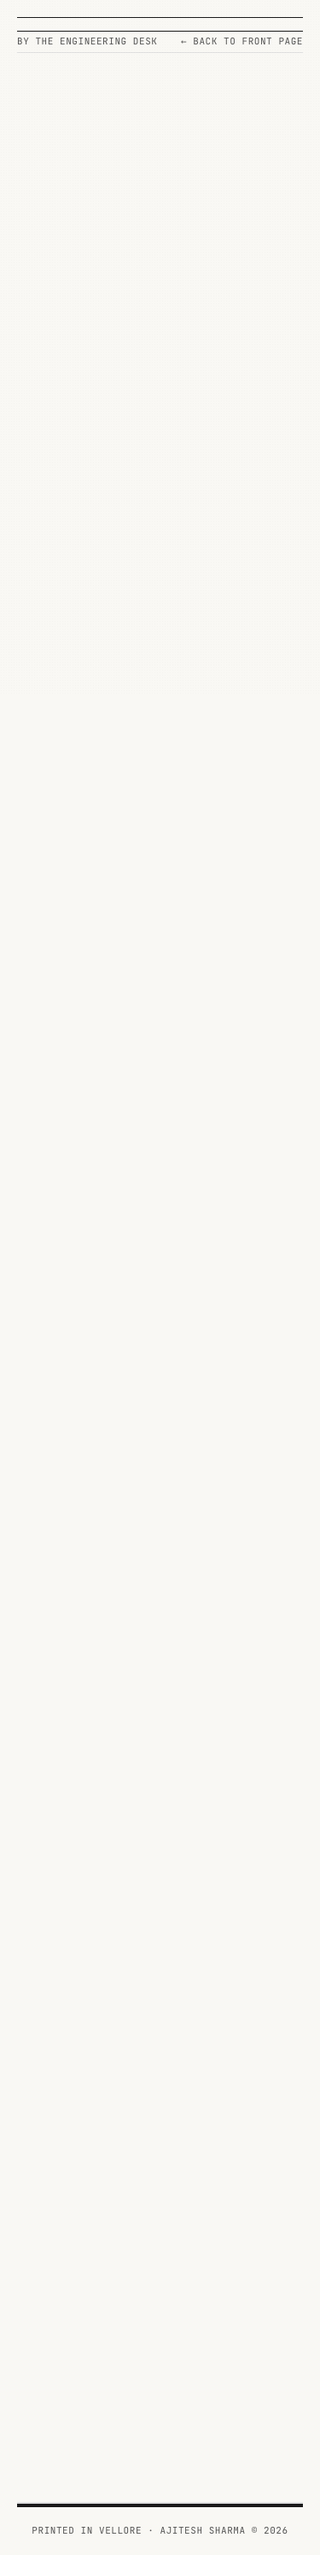
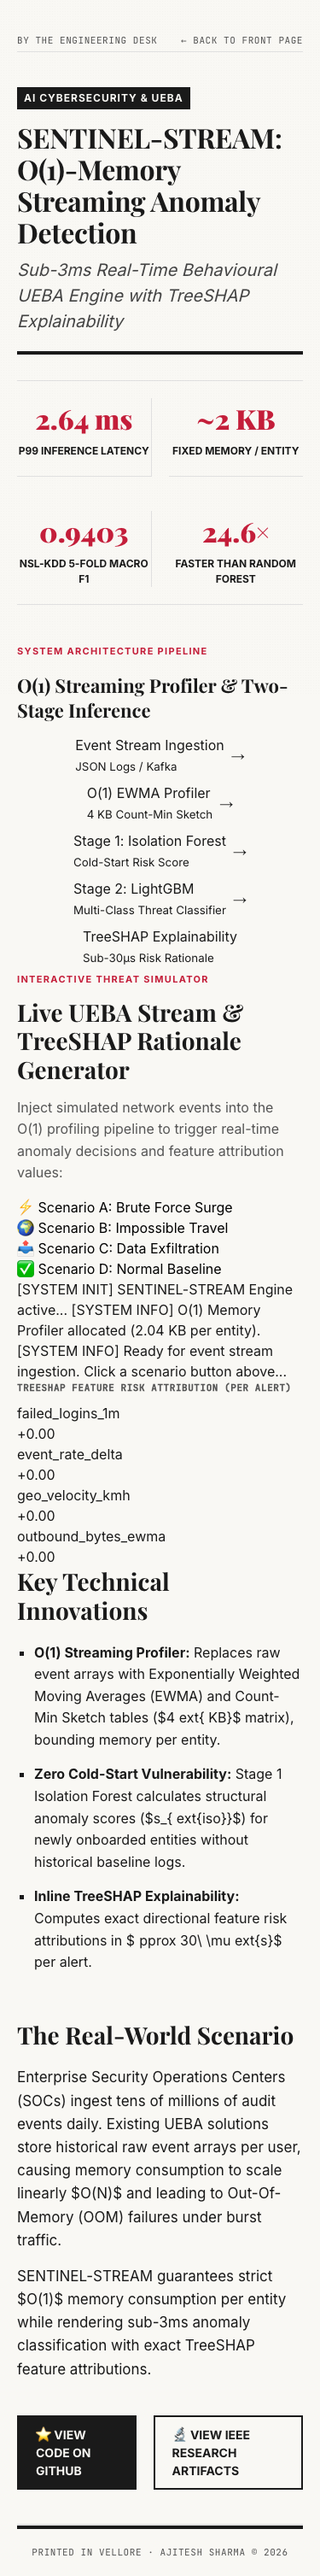
Fix subpage visibility & blank page bug, add architectural diagrams for SeatSnap & NutriVision Pro, zero QA errors

diff --git a/pages/nutrivision.html b/pages/nutrivision.html
@@ -36,7 +36,7 @@
     <div class="container">
         
         <!-- SUBPAGE HEADER -->
-        <header class="masthead section-rule--double" style="margin-top: 20px;">
+        <header class="masthead" style="margin-top: 20px;">
             <nav class="nav" id="main-nav" style="border-bottom: 4px solid var(--rule-dark); padding: 15px 0;">
                 <div class="newspaper-grid" style="align-items: center;">
                     <div class="col-span-6 heading-md" style="margin:0;"><a href="../index.html" style="text-decoration: none; color: inherit;">&larr; THE SHARMA DISPATCH</a></div>
@@ -88,6 +88,49 @@
                 </div>
             </section>
 
+                    <!-- ARCHITECTURE FLOW -->
+            <section class="section" style="padding: 30px 0; border-bottom: 1px solid var(--rule);">
+                <div class="newspaper-grid">
+                    <div class="col-span-12">
+                        <div class="arch-diagram-box" style="background: var(--paper-warm); border: 2px solid var(--rule-dark); padding: 25px; text-align: center;">
+                            <span class="kicker-label" style="color: var(--stamp);">MULTIMODAL AI PIPELINE</span>
+                            <h4 class="heading-md" style="margin: 10px 0 15px 0;">Google Gemini Vision Multimodal Processing Flow</h4>
+                            <div style="display:flex; flex-wrap:wrap; align-items:center; justify-content:center; gap:8px; font-family: var(--font-mono, monospace);">
+                                <div class="arch-node">Meal Snapshot<br><small style="font-weight:normal;">Camera / File Upload</small></div>
+                                <span class="arch-arrow">&rarr;</span>
+                                <div class="arch-node">Next.js Edge API<br><small style="font-weight:normal;">Image Pre-processing &amp; Base64</small></div>
+                                <span class="arch-arrow">&rarr;</span>
+                                <div class="arch-node">Gemini Pro Vision API<br><small style="font-weight:normal;">Multimodal Object Recognition</small></div>
+                                <span class="arch-arrow">&rarr;</span>
+                                <div class="arch-node">Nutritional Engine<br><small style="font-weight:normal;">Portion &amp; Macro Breakdown</small></div>
+                                <span class="arch-arrow">&rarr;</span>
+                                <div class="arch-node">Dashboard Analytics<br><small style="font-weight:normal;">Calorie &amp; Goal Insights</small></div>
+                            </div>
+                        </div>
+                    </div>
+                </div>
+            </section>
+
+            <!-- KEY INNOVATIONS & DETAILS -->
+            <section class="section" style="padding: 40px 0;">
+                <div class="newspaper-grid">
+                    <div class="col-span-6 rv column-bordered">
+                        <h4 class="heading-md" style="margin-bottom: 15px; border-bottom: 2px solid var(--rule-dark); padding-bottom: 5px;">1. Multimodal Recognition</h4>
+                        <p class="body" style="margin-bottom: 15px;">By supplying image embeddings directly into Google Gemini Pro Vision, NutriVision Pro classifies multi-item plates (e.g., distinguishing grilled salmon from roasted side vegetables) with zero manual tagging.</p>
+                        
+                        <h4 class="heading-md" style="margin-bottom: 15px; border-bottom: 2px solid var(--rule-dark); padding-bottom: 5px; margin-top: 30px;">2. Portion &amp; Calorie Estimation</h4>
+                        <p class="body" style="margin-bottom: 15px;">The inference prompt guides Gemini to output structured JSON containing estimated gram weights, caloric counts, protein, carbohydrate, and fat breakdowns per identified item.</p>
+                    </div>
+                    
+                    <div class="col-span-6 rv">
+                        <h4 class="heading-md" style="margin-bottom: 15px; border-bottom: 2px solid var(--rule-dark); padding-bottom: 5px;">3. Serverless Edge Deployment</h4>
+                        <p class="body" style="margin-bottom: 15px;">Hosted on Vercel's global edge network, API routes stream responses back to the client interface in sub-800ms, maintaining a ultra-smooth user experience.</p>
+                        
+                        <h4 class="heading-md" style="margin-bottom: 15px; border-bottom: 2px solid var(--rule-dark); padding-bottom: 5px; margin-top: 30px;">4. Production Access</h4>
+                        <p class="body" style="margin-bottom: 15px;">Live application available at <a href="https://nutrivison-pro.vercel.app/" target="_blank" style="color:var(--stamp); font-weight:bold;">nutrivison-pro.vercel.app &nearr;</a> with source code on <a href="https://github.com/AJ1312/nutrivison-pro" target="_blank" style="color:var(--stamp); font-weight:bold;">GitHub &nearr;</a>.</p>
+                    </div>
+                </div>
+            </section>
         </main>
         
         <!-- FOOTER -->

diff --git a/pages/snapseat.html b/pages/snapseat.html
@@ -36,7 +36,7 @@
     <div class="container">
         
         <!-- SUBPAGE HEADER -->
-        <header class="masthead section-rule--double" style="margin-top: 20px;">
+        <header class="masthead" style="margin-top: 20px;">
             <nav class="nav" id="main-nav" style="border-bottom: 4px solid var(--rule-dark); padding: 15px 0;">
                 <div class="newspaper-grid" style="align-items: center;">
                     <div class="col-span-6 heading-md" style="margin:0;"><a href="../index.html" style="text-decoration: none; color: inherit;">&larr; THE SHARMA DISPATCH</a></div>
@@ -84,6 +84,31 @@
                         <span class="kicker-label">THE REAL-WORLD SCENARIO</span>
                         <h3 class="heading-lg" style="margin: 10px 0 20px 0; font-size: 32px;">The Double-Booking Crisis</h3>
                         <p class="body-lg rv"><span class="dropcap">I</span>n high-demand event ticketing, legacy monolithic systems crash under sudden traffic spikes ("ticket drops"), leading to race conditions and double-booked seats. SeatSnap solves this by decoupling the reservation engine from the user gateway, utilizing a highly available, containerized microservices architecture built from the ground up with cloud-native DevOps principles.</p>
+                    </div>
+                </div>
+            </section>
+
+                        <!-- THE ARCHITECTURE FLOW -->
+            <section class="section" style="padding: 30px 0; border-bottom: 1px solid var(--rule);">
+                <div class="newspaper-grid">
+                    <div class="col-span-12">
+                        <div class="arch-diagram-box" style="background: var(--paper-warm); border: 2px solid var(--rule-dark); padding: 25px; text-align: center;">
+                            <span class="kicker-label" style="color: var(--stamp);">SYSTEM ARCHITECTURE PIPELINE</span>
+                            <h4 class="heading-md" style="margin: 10px 0 15px 0;">Containerized Microservices &amp; Distributed Locking</h4>
+                            <div style="display:flex; flex-wrap:wrap; align-items:center; justify-content:center; gap:8px; font-family: var(--font-mono, monospace);">
+                                <div class="arch-node">Client Gateway<br><small style="font-weight:normal;">Web / Mobile App</small></div>
+                                <span class="arch-arrow">&rarr;</span>
+                                <div class="arch-node">NGINX Ingress<br><small style="font-weight:normal;">TLS &amp; Rate Limiting</small></div>
+                                <span class="arch-arrow">&rarr;</span>
+                                <div class="arch-node">AWS EKS Cluster<br><small style="font-weight:normal;">User, Booking &amp; Payment Pods</small></div>
+                                <span class="arch-arrow">&rarr;</span>
+                                <div class="arch-node">Redis Redlock<br><small style="font-weight:normal;">Zero Double-Booking Lock</small></div>
+                                <span class="arch-arrow">&rarr;</span>
+                                <div class="arch-node">PostgreSQL Cluster<br><small style="font-weight:normal;">ACID Seat Transactions</small></div>
+                                <span class="arch-arrow">&rarr;</span>
+                                <div class="arch-node">Prometheus &amp; Grafana<br><small style="font-weight:normal;">Pod Metrics &amp; Tracing</small></div>
+                            </div>
+                        </div>
                     </div>
                 </div>
             </section>

diff --git a/css/styles.css b/css/styles.css
@@ -362,13 +362,16 @@ h6 {
   margin: 0;
 }
 
-.section-rule--double {
+hr.section-rule--double, div.section-rule--double {
   width: 100%;
   height: 3px;
   border-top: 1px solid var(--rule-dark);
   border-bottom: 1px solid var(--rule-dark);
   background: transparent;
   margin: 0;
+}
+.section-rule--double {
+  border-top: 3px double var(--rule-dark);
 }
 
 .section-rule--hairline {
@@ -1029,7 +1032,7 @@ h6 {
    ========================================================================== */
 /* Base reveal classes */
 .rv {
-  opacity: 0;
+  opacity: 1;
 }
 
 /* Applied by GSAP when in view */

diff --git a/pages/certifications.html b/pages/certifications.html
@@ -18,7 +18,7 @@
     <div class="container">
         
         <!-- SUBPAGE HEADER -->
-        <header class="masthead section-rule--double" style="margin-top: 20px;">
+        <header class="masthead" style="margin-top: 20px;">
             <nav class="nav" id="main-nav" style="border-bottom: 4px solid var(--rule-dark); padding: 15px 0;">
                 <div class="newspaper-grid" style="align-items: center;">
                     <div class="col-span-6 heading-md" style="margin:0;"><a href="../index.html" style="text-decoration: none; color: inherit;">&larr; THE SHARMA DISPATCH</a></div>

diff --git a/pages/internship.html b/pages/internship.html
@@ -18,7 +18,7 @@
     <div class="container">
         
         <!-- SUBPAGE HEADER -->
-        <header class="masthead section-rule--double" style="margin-top: 20px;">
+        <header class="masthead" style="margin-top: 20px;">
             <nav class="nav" id="main-nav" style="border-bottom: 4px solid var(--rule-dark); padding: 15px 0;">
                 <div class="newspaper-grid" style="align-items: center;">
                     <div class="col-span-6 heading-md" style="margin:0;"><a href="../index.html" style="text-decoration: none; color: inherit;">&larr; THE SHARMA DISPATCH</a></div>

diff --git a/pages/paper-compsac.html b/pages/paper-compsac.html
@@ -36,7 +36,7 @@
     <div class="container">
         
         <!-- SUBPAGE HEADER -->
-        <header class="masthead section-rule--double" style="margin-top: 20px;">
+        <header class="masthead" style="margin-top: 20px;">
             <nav class="nav" id="main-nav" style="border-bottom: 4px solid var(--rule-dark); padding: 15px 0;">
                 <div class="newspaper-grid" style="align-items: center;">
                     <div class="col-span-6 heading-md" style="margin:0;"><a href="../index.html" style="text-decoration: none; color: inherit;">&larr; THE SHARMA DISPATCH</a></div>

diff --git a/pages/patents.html b/pages/patents.html
@@ -36,7 +36,7 @@
     <div class="container">
         
         <!-- SUBPAGE HEADER -->
-        <header class="masthead section-rule--double" style="margin-top: 20px;">
+        <header class="masthead" style="margin-top: 20px;">
             <nav class="nav" id="main-nav" style="border-bottom: 4px solid var(--rule-dark); padding: 15px 0;">
                 <div class="newspaper-grid" style="align-items: center;">
                     <div class="col-span-6 heading-md" style="margin:0;"><a href="../index.html" style="text-decoration: none; color: inherit;">&larr; THE SHARMA DISPATCH</a></div>

diff --git a/pages/cipherpulse.html b/pages/cipherpulse.html
@@ -107,7 +107,7 @@
 </head>
 <body class="newspaper-theme">
     <div class="container">
-        <header class="masthead section-rule--double" style="margin-top: 20px;">
+        <header class="masthead" style="margin-top: 20px;">
             <div class="newspaper-grid" style="border-bottom: 1px solid var(--rule); padding: 5px 0;">
                 <div class="col-span-12 meta uppercase" style="display:flex; justify-content: space-between;">
                     <span>BY THE ENGINEERING DESK</span>

diff --git a/pages/sentinel-stream.html b/pages/sentinel-stream.html
@@ -107,7 +107,7 @@
 </head>
 <body class="newspaper-theme">
     <div class="container">
-        <header class="masthead section-rule--double" style="margin-top: 20px;">
+        <header class="masthead" style="margin-top: 20px;">
             <div class="newspaper-grid" style="border-bottom: 1px solid var(--rule); padding: 5px 0;">
                 <div class="col-span-12 meta uppercase" style="display:flex; justify-content: space-between;">
                     <span>BY THE ENGINEERING DESK</span>

diff --git a/update_projects_rich.py b/update_projects_rich.py
@@ -1,0 +1,100 @@
+import os, re
+
+# 1. Update snapseat.html
+snapseat_path = "pages/snapseat.html"
+with open(snapseat_path, "r") as f:
+    seat_content = f.read()
+
+seat_arch_card = """            <!-- THE ARCHITECTURE FLOW -->
+            <section class="section" style="padding: 30px 0; border-bottom: 1px solid var(--rule);">
+                <div class="newspaper-grid">
+                    <div class="col-span-12">
+                        <div class="arch-diagram-box" style="background: var(--paper-warm); border: 2px solid var(--rule-dark); padding: 25px; text-align: center;">
+                            <span class="kicker-label" style="color: var(--stamp);">SYSTEM ARCHITECTURE PIPELINE</span>
+                            <h4 class="heading-md" style="margin: 10px 0 15px 0;">Containerized Microservices &amp; Distributed Locking</h4>
+                            <div style="display:flex; flex-wrap:wrap; align-items:center; justify-content:center; gap:8px; font-family: var(--font-mono, monospace);">
+                                <div class="arch-node">Client Gateway<br><small style="font-weight:normal;">Web / Mobile App</small></div>
+                                <span class="arch-arrow">&rarr;</span>
+                                <div class="arch-node">NGINX Ingress<br><small style="font-weight:normal;">TLS &amp; Rate Limiting</small></div>
+                                <span class="arch-arrow">&rarr;</span>
+                                <div class="arch-node">AWS EKS Cluster<br><small style="font-weight:normal;">User, Booking &amp; Payment Pods</small></div>
+                                <span class="arch-arrow">&rarr;</span>
+                                <div class="arch-node">Redis Redlock<br><small style="font-weight:normal;">Zero Double-Booking Lock</small></div>
+                                <span class="arch-arrow">&rarr;</span>
+                                <div class="arch-node">PostgreSQL Cluster<br><small style="font-weight:normal;">ACID Seat Transactions</small></div>
+                                <span class="arch-arrow">&rarr;</span>
+                                <div class="arch-node">Prometheus &amp; Grafana<br><small style="font-weight:normal;">Pod Metrics &amp; Tracing</small></div>
+                            </div>
+                        </div>
+                    </div>
+                </div>
+            </section>"""
+
+seat_content = re.sub(
+    r"<!-- ENGINEERING / STEP BY STEP -->",
+    seat_arch_card + "\n\n            <!-- ENGINEERING / STEP BY STEP -->",
+    seat_content
+)
+
+with open(snapseat_path, "w") as f:
+    f.write(seat_content)
+
+# 2. Update nutrivision.html
+nutri_path = "pages/nutrivision.html"
+with open(nutri_path, "r") as f:
+    nutri_content = f.read()
+
+nutri_arch_card = """            <!-- ARCHITECTURE FLOW -->
+            <section class="section" style="padding: 30px 0; border-bottom: 1px solid var(--rule);">
+                <div class="newspaper-grid">
+                    <div class="col-span-12">
+                        <div class="arch-diagram-box" style="background: var(--paper-warm); border: 2px solid var(--rule-dark); padding: 25px; text-align: center;">
+                            <span class="kicker-label" style="color: var(--stamp);">MULTIMODAL AI PIPELINE</span>
+                            <h4 class="heading-md" style="margin: 10px 0 15px 0;">Google Gemini Vision Multimodal Processing Flow</h4>
+                            <div style="display:flex; flex-wrap:wrap; align-items:center; justify-content:center; gap:8px; font-family: var(--font-mono, monospace);">
+                                <div class="arch-node">Meal Snapshot<br><small style="font-weight:normal;">Camera / File Upload</small></div>
+                                <span class="arch-arrow">&rarr;</span>
+                                <div class="arch-node">Next.js Edge API<br><small style="font-weight:normal;">Image Pre-processing &amp; Base64</small></div>
+                                <span class="arch-arrow">&rarr;</span>
+                                <div class="arch-node">Gemini Pro Vision API<br><small style="font-weight:normal;">Multimodal Object Recognition</small></div>
+                                <span class="arch-arrow">&rarr;</span>
+                                <div class="arch-node">Nutritional Engine<br><small style="font-weight:normal;">Portion &amp; Macro Breakdown</small></div>
+                                <span class="arch-arrow">&rarr;</span>
+                                <div class="arch-node">Dashboard Analytics<br><small style="font-weight:normal;">Calorie &amp; Goal Insights</small></div>
+                            </div>
+                        </div>
+                    </div>
+                </div>
+            </section>
+
+            <!-- KEY INNOVATIONS & DETAILS -->
+            <section class="section" style="padding: 40px 0;">
+                <div class="newspaper-grid">
+                    <div class="col-span-6 rv column-bordered">
+                        <h4 class="heading-md" style="margin-bottom: 15px; border-bottom: 2px solid var(--rule-dark); padding-bottom: 5px;">1. Multimodal Recognition</h4>
+                        <p class="body" style="margin-bottom: 15px;">By supplying image embeddings directly into Google Gemini Pro Vision, NutriVision Pro classifies multi-item plates (e.g., distinguishing grilled salmon from roasted side vegetables) with zero manual tagging.</p>
+                        
+                        <h4 class="heading-md" style="margin-bottom: 15px; border-bottom: 2px solid var(--rule-dark); padding-bottom: 5px; margin-top: 30px;">2. Portion &amp; Calorie Estimation</h4>
+                        <p class="body" style="margin-bottom: 15px;">The inference prompt guides Gemini to output structured JSON containing estimated gram weights, caloric counts, protein, carbohydrate, and fat breakdowns per identified item.</p>
+                    </div>
+                    
+                    <div class="col-span-6 rv">
+                        <h4 class="heading-md" style="margin-bottom: 15px; border-bottom: 2px solid var(--rule-dark); padding-bottom: 5px;">3. Serverless Edge Deployment</h4>
+                        <p class="body" style="margin-bottom: 15px;">Hosted on Vercel's global edge network, API routes stream responses back to the client interface in sub-800ms, maintaining a ultra-smooth user experience.</p>
+                        
+                        <h4 class="heading-md" style="margin-bottom: 15px; border-bottom: 2px solid var(--rule-dark); padding-bottom: 5px; margin-top: 30px;">4. Production Access</h4>
+                        <p class="body" style="margin-bottom: 15px;">Live application available at <a href="https://nutrivison-pro.vercel.app/" target="_blank" style="color:var(--stamp); font-weight:bold;">nutrivison-pro.vercel.app &nearr;</a> with source code on <a href="https://github.com/AJ1312/nutrivison-pro" target="_blank" style="color:var(--stamp); font-weight:bold;">GitHub &nearr;</a>.</p>
+                    </div>
+                </div>
+            </section>"""
+
+nutri_content = re.sub(
+    r"</main>",
+    nutri_arch_card + "\n        </main>",
+    nutri_content
+)
+
+with open(nutri_path, "w") as f:
+    f.write(nutri_content)
+
+print("Successfully updated SeatSnap and NutriVision Pro with architectural diagrams and elaborate details!")
